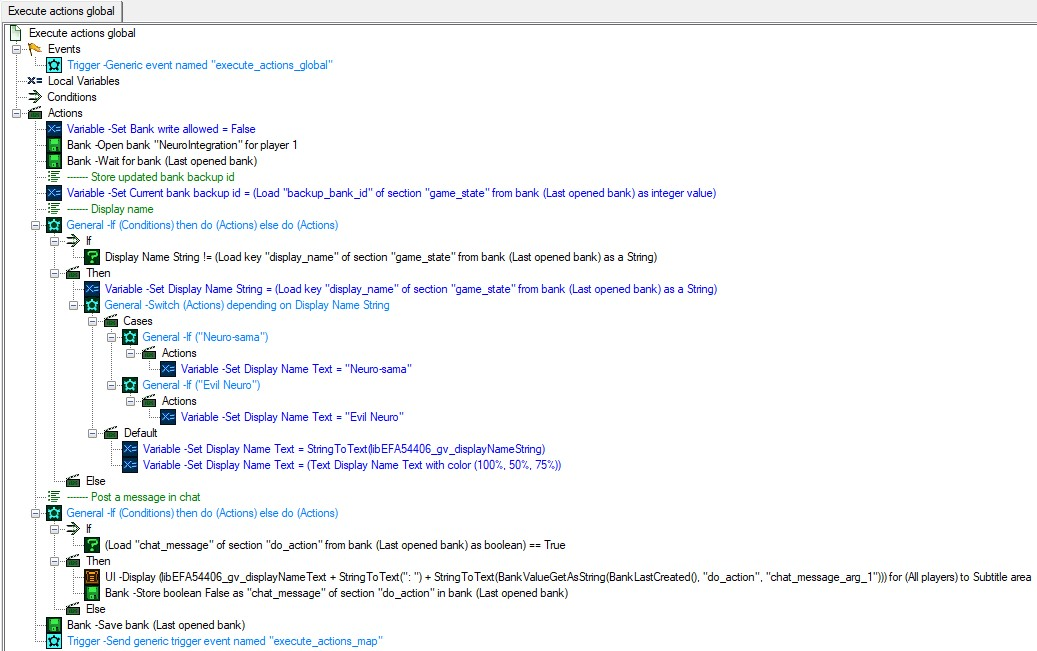
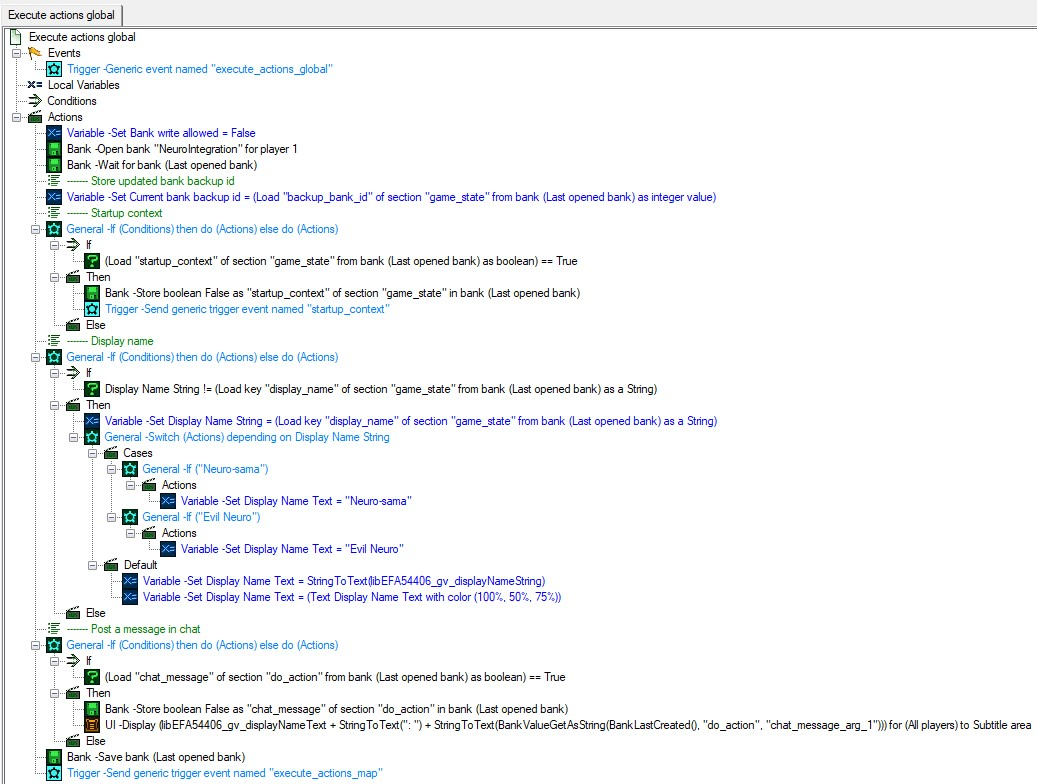
New feature; request current context when connecting or reconnecting

Changed region(s): [[0.0, 0.0, 1.0, 1.0]]

diff --git a/neuro_integration_runtime.py b/neuro_integration_runtime.py
@@ -52,6 +52,7 @@ class NeuroIntegrationRuntimeMixin:
         self._backup_bank_id: int | None = None
         self._last_backup_bank_id: int | None = None
         self._last_parsed_bank_data: dict[str, dict[str, Any]] = {}
+        self._integration_startup: bool = True
         self._in_mission: bool | None = None
         self._in_mission_init: bool = False
         self._game_is_paused: bool = False
@@ -208,6 +209,7 @@ class NeuroIntegrationRuntimeMixin:
                 await self._connect_neuro_websocket()
                 await self._send_neuro_startup()
                 self.print_line("Neuro websocket reconnected successfully.", 1)
+                self._integration_startup = True
                 return True
             except (aiohttp.ClientError, OSError, TimeoutError, RuntimeError, ValueError) as exc:
                 self.print_line(f"Neuro reconnect attempt failed: {exc}", 0)
@@ -513,6 +515,7 @@ class NeuroIntegrationRuntimeMixin:
         await self._notify_action_queue_state_changed()
 
         if not self._in_mission:
+            self._integration_startup = False
             return  # If not in mission, don't bother writing to bank file
         
         skip = await self._skip_if_unsafe_bank_write_window()
@@ -525,6 +528,10 @@ class NeuroIntegrationRuntimeMixin:
 
         self._bank_update_in_progress = True
         await self._notify_action_queue_state_changed()
+
+        if self._integration_startup:
+            await self._startup_context()
+            self._integration_startup = False
 
         if self._in_mission_init:
             await self._init_mission_display_name()
@@ -549,6 +556,11 @@ class NeuroIntegrationRuntimeMixin:
             return False
         # Out of write window
         return True
+    
+    async def _startup_context(self) -> None:
+        update = {"game_state": {"startup_context": True}}
+        self.print_line("Requesting game context because of first time connection or reconnection", 2)
+        await self._run_serialised_bank_write(lambda: write_bank_values(self._bank_file_path, update))
     
     async def _init_mission_display_name(self) -> None:
         update = {"game_state": {"display_name": self._display_name}}
@@ -1489,6 +1501,7 @@ class NeuroIntegrationRuntimeMixin:
         self._backup_bank_id = None
         self._last_backup_bank_id = None
         self._last_parsed_bank_data = {}
+        self._integration_startup = True
         self._in_mission = None
         self._in_mission_init = False
         self._game_is_paused = False
